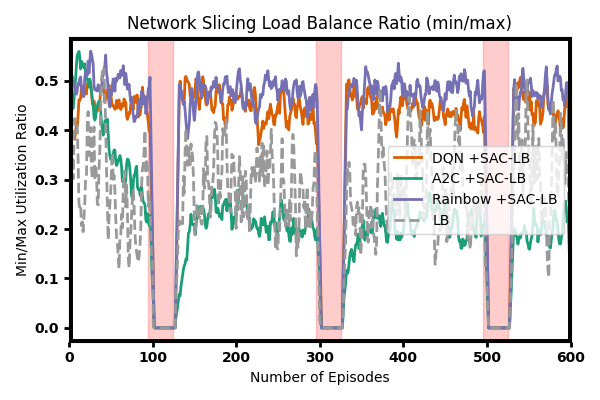
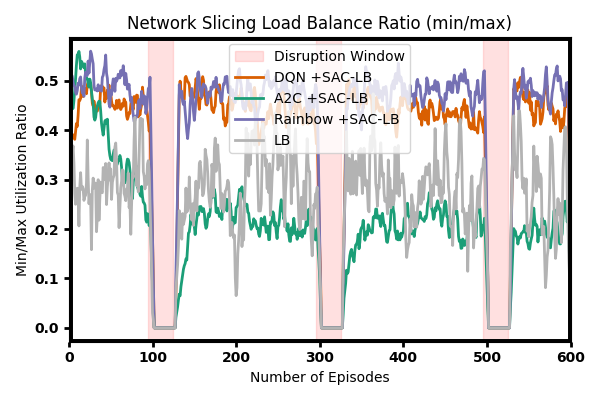
Stable ver (30Jul)

Changed region(s): [[0.12, 0.09, 0.96, 0.84]]

diff --git a/Compare.py b/Compare.py
@@ -3,6 +3,7 @@
 import numpy as np
 import matplotlib.pyplot as plt
 import os
+import matplotlib.patches as mpatches
 
 # ================================
 # Configuration
@@ -148,7 +149,7 @@ mean_dqn_mmtc_blocks = np.nanmean(dqn_mmtc_blocks, axis=0)
 mean_a2c_mmtc_blocks = np.nanmean(a2c_mmtc_blocks, axis=0)
 mean_rdqn_mmtc_blocks = np.nanmean(rdqn_mmtc_blocks, axis=0)
 
-def smooth(data, window=5):
+def smooth(data, window=7):
     return np.convolve(data, np.ones(window)/window, mode='same')
 
 def adjust_std_and_smooth(mean_data, std_data):
@@ -386,7 +387,7 @@ def plot_results():
     plt.plot(dqn_ratio, label='DQN +SAC-LB', color='#d95f02', linewidth=2, linestyle='-')
     plt.plot(a2c_ratio, label='A2C +SAC-LB', color='#1b9e77', linewidth=2, linestyle='-')
     plt.plot(rdqn_ratio, label='Rainbow +SAC-LB', color='#7570b3', linewidth=2, linestyle='-')
-    plt.plot(baseline_ratio, label='LB', color='#999999', linewidth=2, linestyle='--')
+    plt.plot(baseline_ratio, label='LB', color='#b3b3b3', linewidth=2, linestyle='-')
 
     plt.xlim(0, 600)
     plt.axvline(0, color='black', linewidth=5)
@@ -404,8 +405,9 @@ def plot_results():
         label.set_fontweight('bold')
     # --- Mark disruption windows with shaded regions ---
     for start, duration in [(95, 30), (295, 30), (495, 30)]:
-        plt.axvspan(start, start + duration, color='red', alpha=0.2, label=None)
-    plt.legend(loc='center right')
+        plt.axvspan(start, start + duration, color='#ff6666', alpha=0.2, label=None)
+    disruption_patch = mpatches.Patch(color='#ff6666', alpha=0.2, label='Disruption Window')
+    plt.legend(loc='upper center', handles=[disruption_patch] + plt.gca().get_legend_handles_labels()[0])
     plt.tight_layout()
     plt.savefig('Load_Balance_Metric.png')
     plt.close()
@@ -415,7 +417,7 @@ def plot_std_metric():
     plt.plot(smooth(mean_dqn_std, window=5), label='DQN +SAC-LB', color='#d95f02', linewidth=2, linestyle='-')
     plt.plot(smooth(mean_a2c_std, window=5), label='A2C +SAC-LB', color='#1b9e77', linewidth=2, linestyle='-')
     plt.plot(smooth(mean_rdqn_std, window=5), label='Rainbow +SAC-LB', color='#7570b3', linewidth=2, linestyle='-')
-    plt.plot(smooth(baseline_std, window=5), label='LB', color='#999999', linewidth=2, linestyle='--')
+    plt.plot(smooth(baseline_std, window=5), label='LB', color='#b3b3b3', linewidth=2, linestyle='-')
     plt.title("Std Dev of Slice Utilization")
     plt.xlabel("Number of Episodes")
     plt.ylabel("Std Dev (Normalized Usage)")
@@ -431,8 +433,9 @@ def plot_std_metric():
     for label in plt.gca().get_yticklabels():
         label.set_fontweight('bold')
     for start, duration in [(95, 30), (295, 30), (495, 30)]:
-        plt.axvspan(start, start + duration, color='red', alpha=0.2, label=None)
-    plt.legend(loc='center right')
+        plt.axvspan(start, start + duration, color='#ff6666', alpha=0.2, label=None)
+    disruption_patch = mpatches.Patch(color='#ff6666', alpha=0.2, label='Disruption Window')
+    plt.legend(loc='upper right', handles=[disruption_patch] + plt.gca().get_legend_handles_labels()[0])
     plt.tight_layout()
     plt.savefig('Std_Utilization.png')
     plt.close()
@@ -442,7 +445,7 @@ def plot_block_rate_urllc():
     plt.plot(smooth(mean_dqn_urllc_blocks, window=5), label='DQN +SAC-LB', color='#d95f02', linestyle='-', linewidth=2)
     plt.plot(smooth(mean_a2c_urllc_blocks, window=5), label='A2C +SAC-LB', color='#1b9e77', linestyle='-', linewidth=2)
     plt.plot(smooth(mean_rdqn_urllc_blocks, window=5), label='Rainbow +SAC-LB', color='#7570b3', linestyle='-', linewidth=2)
-    plt.plot(smooth(baseline_urllc_blocks, window=5), label='LB', color='#999999', linewidth=2, linestyle='--')
+    plt.plot(smooth(baseline_urllc_blocks, window=5), label='LB', color='#b3b3b3', linewidth=2, linestyle='-')
     plt.title("Block Rate - URLLC Slice")
     plt.xlabel("Number of Episodes")
     plt.ylabel("Mean Block Count per Episode")
@@ -459,8 +462,9 @@ def plot_block_rate_urllc():
         label.set_fontweight('bold')
     # --- Mark disruption windows with shaded regions ---
     for start, duration in [(95, 30), (295, 30), (495, 30)]:
-        plt.axvspan(start, start + duration, color='red', alpha=0.2, label=None)
-    plt.legend(loc='center right')
+        plt.axvspan(start, start + duration, color='#ff6666', alpha=0.2, label=None)
+    disruption_patch = mpatches.Patch(color='#ff6666', alpha=0.2, label='Disruption Window')
+    plt.legend(loc='center right', handles=[disruption_patch] + plt.gca().get_legend_handles_labels()[0])
     plt.tight_layout()
     plt.savefig('Block_Rate_URRLC.png')
     plt.close()
@@ -470,7 +474,7 @@ def plot_block_rate_embb():
     plt.plot(smooth(mean_dqn_embb_blocks, window=5), label='DQN +SAC-LB', color='#d95f02', linestyle='-', linewidth=2)
     plt.plot(smooth(mean_a2c_embb_blocks, window=5), label='A2C +SAC-LB', color='#1b9e77', linestyle='-', linewidth=2)
     plt.plot(smooth(mean_rdqn_embb_blocks, window=5), label='Rainbow +SAC-LB', color='#7570b3', linestyle='-', linewidth=2)
-    plt.plot(smooth(baseline_embb_blocks, window=5), label='LB', color='#999999', linewidth=2, linestyle='--')
+    plt.plot(smooth(baseline_embb_blocks, window=5), label='LB', color='#b3b3b3', linewidth=2, linestyle='-')
     plt.title("Block Rate - eMBB Slice")
     plt.xlabel("Number of Episodes")
     plt.ylabel("Mean Block Count per Episode")
@@ -487,8 +491,9 @@ def plot_block_rate_embb():
         label.set_fontweight('bold')
     # --- Mark disruption windows with shaded regions ---
     for start, duration in [(95, 30), (295, 30), (495, 30)]:
-        plt.axvspan(start, start + duration, color='red', alpha=0.2, label=None)
-    plt.legend(loc='center right')
+        plt.axvspan(start, start + duration, color='#ff6666', alpha=0.2, label=None)
+    disruption_patch = mpatches.Patch(color='#ff6666', alpha=0.2, label='Disruption Window')
+    plt.legend(loc='center right', handles=[disruption_patch] + plt.gca().get_legend_handles_labels()[0])
     plt.tight_layout()
     plt.savefig('Block_Rate_eMBB.png')
     plt.close()
@@ -498,7 +503,7 @@ def plot_block_rate_mmtc():
     plt.plot(smooth(mean_dqn_mmtc_blocks, window=5), label='DQN +SAC-LB', color='#d95f02', linestyle='-', linewidth=2)
     plt.plot(smooth(mean_a2c_mmtc_blocks, window=5), label='A2C +SAC-LB', color='#1b9e77', linestyle='-', linewidth=2)
     plt.plot(smooth(mean_rdqn_mmtc_blocks, window=5), label='Rainbow +SAC-LB', color='#7570b3', linestyle='-', linewidth=2)
-    plt.plot(smooth(baseline_mmtc_blocks, window=5), label='LB', color='#999999', linewidth=2, linestyle='--')
+    plt.plot(smooth(baseline_mmtc_blocks, window=5), label='LB', color='#b3b3b3', linewidth=2, linestyle='-')
     plt.title("Block Rate - mMTC Slice")
     plt.xlabel("Number of Episodes")
     plt.ylabel("Mean Block Count per Episode")
@@ -515,8 +520,9 @@ def plot_block_rate_mmtc():
         label.set_fontweight('bold')
     # --- Mark disruption windows with shaded regions ---
     for start, duration in [(95, 30), (295, 30), (495, 30)]:
-        plt.axvspan(start, start + duration, color='red', alpha=0.2, label=None)
-    plt.legend(loc='center right')
+        plt.axvspan(start, start + duration, color='#ff6666', alpha=0.2, label=None)
+    disruption_patch = mpatches.Patch(color='#ff6666', alpha=0.2, label='Disruption Window')
+    plt.legend(loc='center right', handles=[disruption_patch] + plt.gca().get_legend_handles_labels()[0])
     plt.tight_layout()
     plt.savefig('Block_Rate_mMTC.png')
     plt.close()
@@ -526,7 +532,7 @@ def plot_sla_satisfaction_urllc():
     plt.plot(smooth(mean_dqn_urllc_sla, window=5), label='DQN +SAC-LB', color='#d95f02', linewidth=2, linestyle='-')
     plt.plot(smooth(mean_a2c_urllc_sla, window=5), label='A2C +SAC-LB', color='#1b9e77', linewidth=2, linestyle='-')
     plt.plot(smooth(mean_rdqn_urllc_sla, window=5), label='Rainbow +SAC-LB', color='#7570b3', linewidth=2, linestyle='-')
-    plt.plot(smooth(baseline_urllc_sla, window=5), label='LB', color='#999999', linewidth=2, linestyle='--')
+    plt.plot(smooth(baseline_urllc_sla, window=5), label='LB', color='#b3b3b3', linewidth=2, linestyle='-')
     plt.title("SLA Satisfaction - URLLC")
     plt.xlabel("Number of Episodes")
     plt.ylabel("SLA Satisfaction Ratio")
@@ -543,8 +549,9 @@ def plot_sla_satisfaction_urllc():
         label.set_fontweight('bold')
     # --- Mark disruption windows with shaded regions ---
     for start, duration in [(95, 30), (295, 30), (495, 30)]:
-        plt.axvspan(start, start + duration, color='red', alpha=0.2, label=None)
-    plt.legend(loc='center right', fontsize=8)
+        plt.axvspan(start, start + duration, color='#ff6666', alpha=0.2, label=None)
+    disruption_patch = mpatches.Patch(color='#ff6666', alpha=0.2, label='Disruption Window')
+    plt.legend(loc='center right', fontsize=8, handles=[disruption_patch] + plt.gca().get_legend_handles_labels()[0])
     plt.tight_layout()
     plt.savefig('SLA_Satisfaction_URLLC.png')
     plt.close()
@@ -554,7 +561,7 @@ def plot_sla_satisfaction_embb():
     plt.plot(smooth(mean_dqn_embb_sla, window=5), label='DQN +SAC-LB', color='#d95f02', linewidth=2, linestyle='-')
     plt.plot(smooth(mean_a2c_embb_sla, window=5), label='A2C +SAC-LB', color='#1b9e77', linewidth=2, linestyle='-')
     plt.plot(smooth(mean_rdqn_embb_sla, window=5), label='Rainbow +SAC-LB', color='#7570b3', linewidth=2, linestyle='-')
-    plt.plot(smooth(baseline_embb_sla, window=5), label='LB', color='#999999', linewidth=2, linestyle='--')
+    plt.plot(smooth(baseline_embb_sla, window=5), label='LB', color='#b3b3b3', linewidth=2, linestyle='-')
     plt.title("SLA Satisfaction - eMBB")
     plt.xlabel("Number of Episodes")
     plt.ylabel("SLA Satisfaction Ratio")
@@ -571,8 +578,9 @@ def plot_sla_satisfaction_embb():
         label.set_fontweight('bold')
     # --- Mark disruption windows with shaded regions ---
     for start, duration in [(95, 30), (295, 30), (495, 30)]:
-        plt.axvspan(start, start + duration, color='red', alpha=0.2, label=None)
-    plt.legend(loc='center right', fontsize=8)
+        plt.axvspan(start, start + duration, color='#ff6666', alpha=0.2, label=None)
+    disruption_patch = mpatches.Patch(color='#ff6666', alpha=0.2, label='Disruption Window')
+    plt.legend(loc='center right', fontsize=8, handles=[disruption_patch] + plt.gca().get_legend_handles_labels()[0])
     plt.tight_layout()
     plt.savefig('SLA_Satisfaction_eMBB.png')
     plt.close()
@@ -582,7 +590,7 @@ def plot_sla_satisfaction_mmtc():
     plt.plot(smooth(mean_dqn_mmtc_sla, window=5), label='DQN +SAC-LB', color='#d95f02', linewidth=2, linestyle='-')
     plt.plot(smooth(mean_a2c_mmtc_sla, window=5), label='A2C +SAC-LB', color='#1b9e77', linewidth=2, linestyle='-')
     plt.plot(smooth(mean_rdqn_mmtc_sla, window=5), label='Rainbow +SAC-LB', color='#7570b3', linewidth=2, linestyle='-')
-    plt.plot(smooth(baseline_mmtc_sla, window=5), label='LB', color='#999999', linewidth=2, linestyle='--')
+    plt.plot(smooth(baseline_mmtc_sla, window=5), label='LB', color='#b3b3b3', linewidth=2, linestyle='-')
     plt.title("SLA Satisfaction - mMTC")
     plt.xlabel("Number of Episodes")
     plt.ylabel("SLA Satisfaction Ratio")
@@ -599,8 +607,9 @@ def plot_sla_satisfaction_mmtc():
         label.set_fontweight('bold')
     # --- Mark disruption windows with shaded regions ---
     for start, duration in [(95, 30), (295, 30), (495, 30)]:
-        plt.axvspan(start, start + duration, color='red', alpha=0.2, label=None)
-    plt.legend(loc='center right', fontsize=8)
+        plt.axvspan(start, start + duration, color='#ff6666', alpha=0.2, label=None)
+    disruption_patch = mpatches.Patch(color='#ff6666', alpha=0.2, label='Disruption Window')
+    plt.legend(loc='center right', fontsize=8, handles=[disruption_patch] + plt.gca().get_legend_handles_labels()[0])
     plt.tight_layout()
     plt.savefig('SLA_Satisfaction_mMTC.png')
     plt.close()
